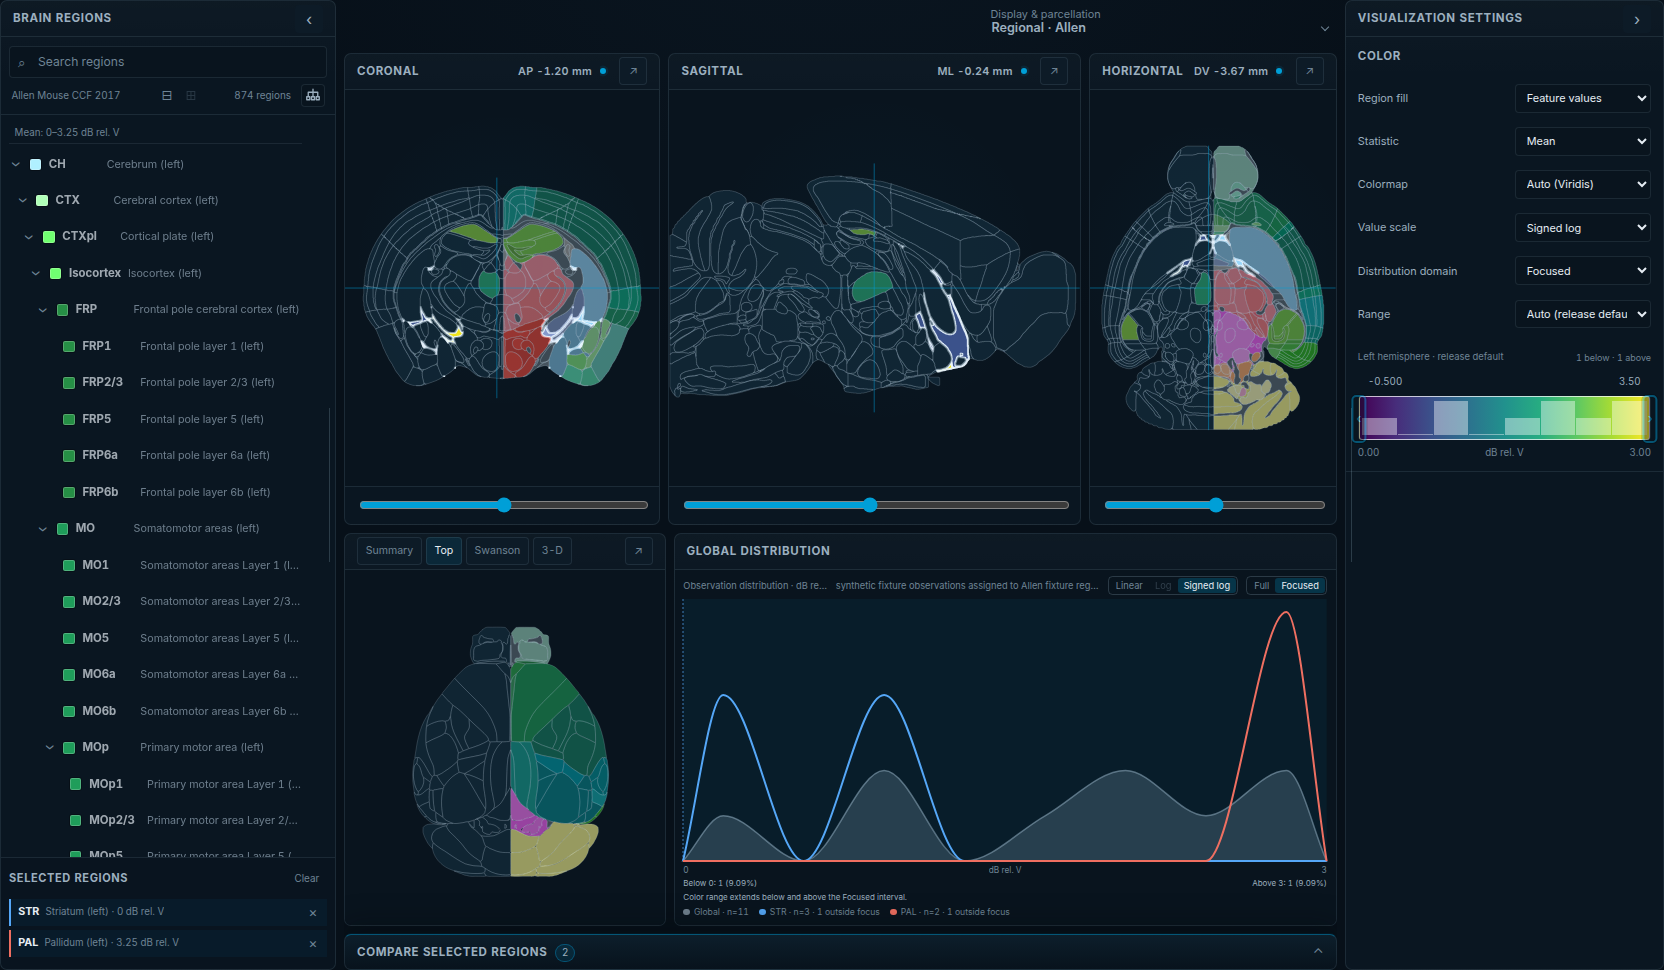
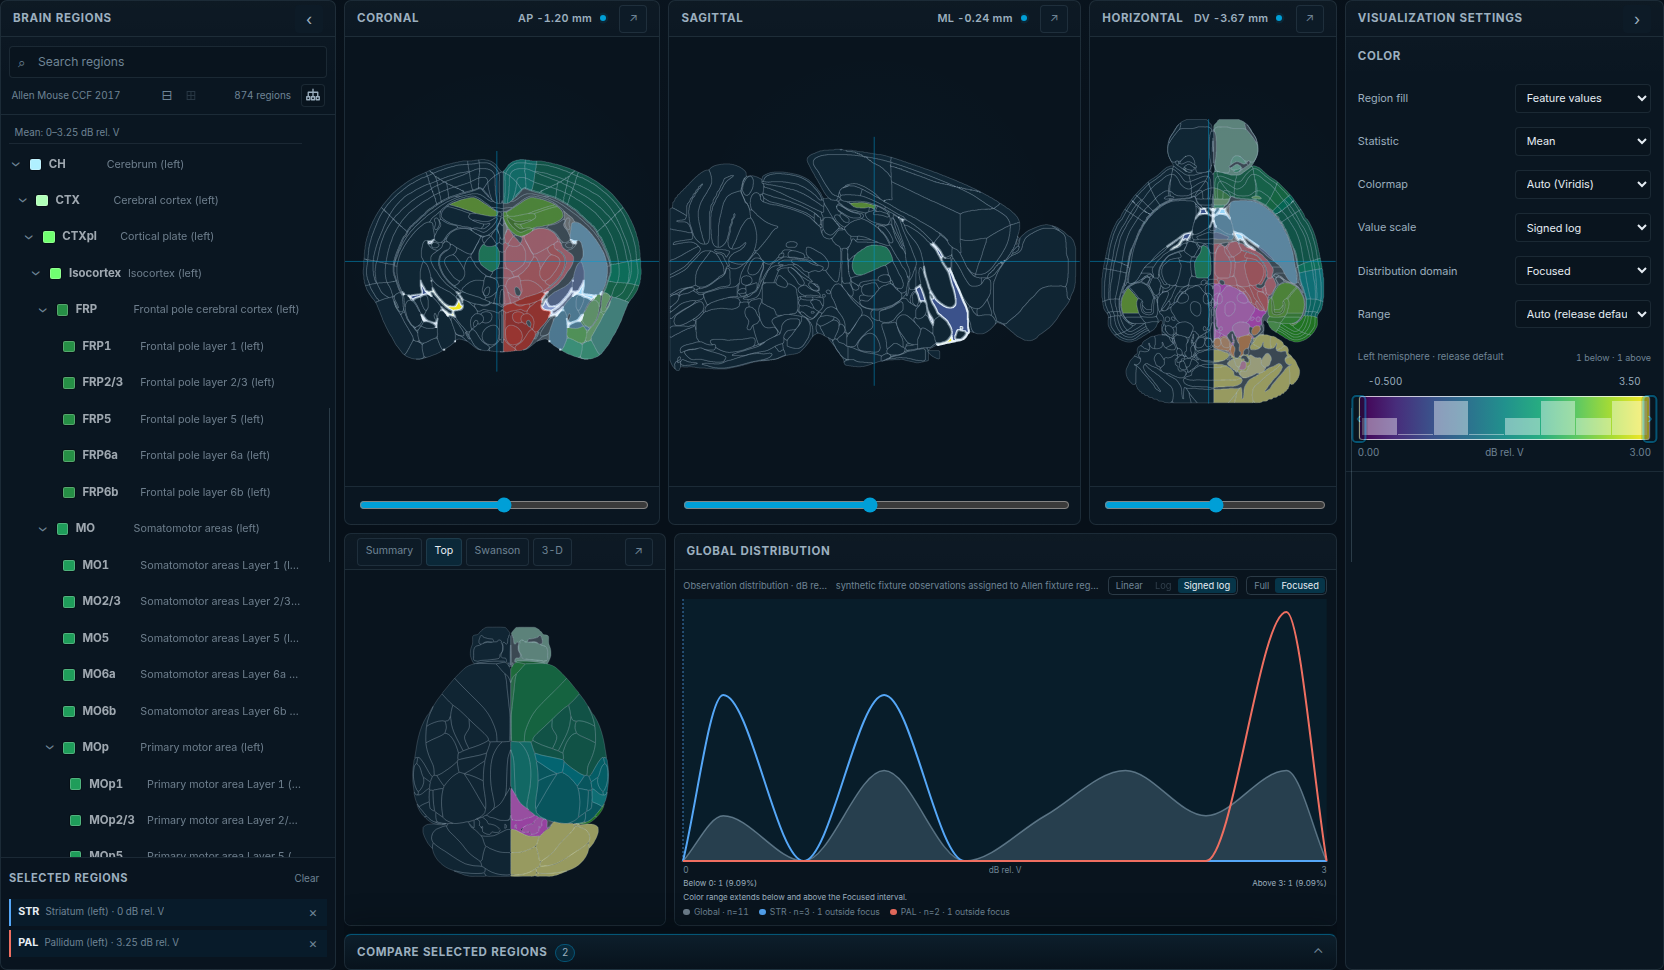
Move display and parcellation into the main header

diff --git a/web/src/styles/components/app-header.css b/web/src/styles/components/app-header.css
@@ -65,7 +65,7 @@
 .app-header__context {
   min-width: 0;
   display: grid;
-  grid-template-columns: minmax(12rem, 1fr) minmax(16rem, 1.5fr);
+  grid-template-columns: minmax(12rem, 1fr) minmax(16rem, 1.5fr) minmax(12rem, .8fr);
   align-items: stretch;
   gap: var(--space-3);
   margin: 0;
@@ -579,24 +579,16 @@
 }
 .context-menu__option-label, .context-menu__option-description { white-space: normal; overflow-wrap: anywhere; }
 .context-menu__option-detail { display: block; max-height: none; }
-.workspace__display-controls {
-  position: relative;
-  z-index: 31;
-  display: flex;
-  justify-content: flex-end;
-  min-width: 0;
-  margin: 0;
-  padding: 0;
+.context-field[data-context-field="representation"] .context-field__release { display: none; }
+@media (min-width: 1100px) {
+  .context-field[data-context-field="data"] .context-field__value { white-space: nowrap; }
 }
-.workspace__display-controls .context-field { width: min(100%, 22rem); }
-.workspace__display-controls .context-menu__trigger { min-height: 2.8rem; padding-bottom: .25rem; }
-.workspace__display-controls .context-field__release { display: none; }
 @media (max-width: 1479px) {
   .app-header__brand-text {
     position: absolute; width: 1px; height: 1px; padding: 0; margin: -1px;
     overflow: hidden; clip: rect(0 0 0 0); white-space: nowrap; border: 0;
   }
-  .app-header__context { gap: var(--space-2); grid-template-columns: minmax(11rem, 1fr) minmax(13rem, 1.3fr); }
+  .app-header__context { gap: var(--space-2); grid-template-columns: minmax(11rem, 1fr) minmax(13rem, 1.3fr) minmax(12rem, .8fr); }
 }
 @media (max-width: 1099px) {
   .app-header__desktop-actions { display: none; }
@@ -605,7 +597,7 @@
   .app-header { grid-template-columns: 3rem minmax(0, 1fr) max-content; gap: var(--space-1); }
   .app-header__brand { padding: 0 .3rem; border: 0; }
   .app-header__logo { height: 2.2rem; }
-  .app-header__context { grid-template-columns: minmax(0, 1fr); grid-template-rows: 1fr 1fr; gap: .25rem; padding: .25rem 0; }
+  .app-header__context { grid-template-columns: minmax(0, 1fr) minmax(0, 1fr); grid-template-rows: 1fr 1fr; gap: .25rem; padding: .25rem 0; }
   .context-field[data-context-field="feature"] { grid-column: 1 / -1; grid-row: 2; }
   .app-header__panel-button[data-drawer-trigger="regions"] { display: inline-flex; }
   .app-header__actions { flex-direction: column; justify-content: center; padding: .25rem; border: 0; }
@@ -629,21 +621,5 @@
     top: auto; right: var(--space-2); bottom: var(--space-2); left: var(--space-2);
     width: auto; max-height: min(70dvh, 36rem); border-radius: var(--radius-lg);
     transform-origin: bottom center;
-  }
-}
-
-.atlas-app[data-maximized-view] .workspace__display-controls {
-  position: fixed;
-  z-index: 75;
-  top: calc(var(--header-height) + 2 * var(--space-2));
-  right: var(--space-2);
-  left: var(--space-2);
-  background: var(--color-bg);
-}
-@media (max-width: 759px) {
-  .atlas-app[data-maximized-view] .workspace__display-controls {
-    top: calc(var(--header-height) + 2 * var(--space-1));
-    right: var(--space-1);
-    left: var(--space-1);
   }
 }

diff --git a/web/test/browser/app.spec.ts b/web/test/browser/app.spec.ts
@@ -36,7 +36,14 @@ for (const viewport of reviewViewports) {
     expect(statusBounds.y + statusBounds.height).toBeLessThanOrEqual(valueBounds.y);
     const headerBounds = (await page.locator('.app-header').boundingBox())!;
     expect(valueBounds.y + valueBounds.height).toBeLessThanOrEqual(headerBounds.y + headerBounds.height);
+    const displayBounds = (await page.locator('.app-header [data-context-field="representation"]').boundingBox())!;
+    expect(displayBounds.y + displayBounds.height).toBeLessThanOrEqual(headerBounds.y + headerBounds.height);
     if (viewport.width >= 1100) {
+      const dataBounds = (await page.locator('[data-context-field="data"]').boundingBox())!;
+      const featureBounds = (await page.locator('[data-context-field="feature"]').boundingBox())!;
+      expect(displayBounds.y).toBe(dataBounds.y);
+      expect(displayBounds.y).toBe(featureBounds.y);
+      expect(displayBounds.x).toBeGreaterThanOrEqual(featureBounds.x + featureBounds.width);
       const representationValue = page.locator('[data-context-field="representation"] .context-field__value');
       expect(await representationValue.evaluate((node) => node.scrollWidth <= node.clientWidth)).toBe(true);
     }

diff --git a/web/src/ui/app-shell.ts b/web/src/ui/app-shell.ts
@@ -601,6 +601,7 @@ export class AppShell {
     context.append(
       this.dataChooser.element,
       this.featureContext.field,
+      this.representationContext.field,
     );
 
     const actions = element('nav', 'app-header__actions');
@@ -2265,10 +2266,7 @@ export class AppShell {
     analysisDialog.append(analysisFrame);
     analysis.append(analysisHeader, analysisDialog);
     this.analysisDialog = analysisDialog;
-    const displayControls = element('dl', 'workspace__display-controls');
-    displayControls.setAttribute('aria-label', 'Visualization controls');
-    displayControls.append(this.representationContext.field);
-    workspace.append(displayControls, switcher, slices, context, analysis);
+    workspace.append(switcher, slices, context, analysis);
     return workspace;
   }
 

diff --git a/web/src/styles/components/view-frame.css b/web/src/styles/components/view-frame.css
@@ -267,7 +267,7 @@
 .view-frame[data-maximized='true'] {
   position: fixed;
   z-index: 70;
-  inset: calc(var(--header-height) + 2 * var(--space-2) + 2.8rem + var(--space-2)) var(--space-2) var(--space-2) var(--space-2);
+  inset: calc(var(--header-height) + 2 * var(--space-2)) var(--space-2) var(--space-2) var(--space-2);
   display: grid;
   height: auto;
   box-shadow: 0 1.25rem 4rem rgb(0 0 0 / 42%);
@@ -321,6 +321,6 @@
   }
 
   .view-frame[data-maximized='true'] {
-    inset: calc(var(--header-height) + 2 * var(--space-1) + 2.8rem + var(--space-1)) var(--space-1) var(--space-1) var(--space-1);
+    inset: calc(var(--header-height) + 2 * var(--space-1)) var(--space-1) var(--space-1) var(--space-1);
   }
 }

diff --git a/web/src/styles/components/secondary-view.css b/web/src/styles/components/secondary-view.css
@@ -154,7 +154,7 @@
 .secondary-view[data-maximized='true'] {
   position: fixed;
   z-index: 70;
-  inset: calc(var(--header-height) + 2 * var(--space-2) + 2.8rem + var(--space-2)) var(--space-2) var(--space-2) var(--space-2);
+  inset: calc(var(--header-height) + 2 * var(--space-2)) var(--space-2) var(--space-2) var(--space-2);
   display: grid;
   box-shadow: 0 1.25rem 4rem rgb(0 0 0 / 42%);
 }

diff --git a/web/src/styles/layout/responsive.css b/web/src/styles/layout/responsive.css
@@ -46,7 +46,7 @@
   }
 
   .workspace {
-    grid-template-rows: 2.8rem 2.75rem minmax(0, 1fr);
+    grid-template-rows: 2.75rem minmax(0, 1fr);
   }
 
   .view-switcher {
@@ -105,7 +105,7 @@
   }
 
   .workspace {
-    grid-template-rows: 2.8rem 2.75rem minmax(0, 1fr);
+    grid-template-rows: 2.75rem minmax(0, 1fr);
     gap: var(--space-1);
   }
 

diff --git a/web/src/styles/layout/workspace.css b/web/src/styles/layout/workspace.css
@@ -1,7 +1,7 @@
 .workspace {
   position: relative;
   display: grid;
-  grid-template-rows: 2.8rem max(14rem, calc(50vh - 2.8rem - var(--space-2))) minmax(12rem, 1fr);
+  grid-template-rows: max(14rem, 50vh) minmax(12rem, 1fr);
   gap: var(--space-2);
   padding-bottom: calc(2.25rem + var(--space-2));
   overflow: hidden;

diff --git a/docs/DECISIONS.md b/docs/DECISIONS.md
@@ -71,8 +71,9 @@ only part of the body; the index states what remains effective.
 | D060 | Lean AWS static hosting and local publication | accepted | 2026-09-02 | CloudFront serves the viewer and data from private S3; no Cloudflare Pages or always-on publishing server initially |
 | D061 | Curated immutable project editions | partially superseded | 2026-09-03 | identity, authority, context and resolution retained; D063 replaces wide/staged UI presentation |
 | D062 | Linux canonical release environment | accepted | 2026-09-04 | Linux-only release build/preflight/publication; macOS preview-only |
-| D063 | Data chooser and exploration-first header | partially superseded | 2026-09-05 | D064 moves version selection into Data details; grouped Data and prominent Feature retained |
+| D063 | Data chooser and exploration-first header | partially superseded | 2026-09-05 | D064 moves version selection into Data details; D065 moves display into the header; grouped Data and prominent Feature retained |
 | D064 | Put rare version changes in Data details | accepted | 2026-09-05 | removes header Release and user-facing edition modes; preserves exact scientific navigation |
+| D065 | Compact display control in the header | accepted | 2026-09-05 | Display & parcellation shares the desktop Data/Feature row; removes workspace control row |
 
 ## D001 — Separate v2
 
@@ -1463,3 +1464,15 @@ coordination merely because exact release IDs happen to match.
 This supersedes the presentation/disclosure requirements of D061/D063 only.
 Scientific choices, schema, publication, immutable identities, and Q9 remain
 unchanged. Named snapshot selection need not occupy an everyday control.
+
+
+## D065 — Keep display and parcellation in the header
+
+Owner direction recorded 2026-09-05. Put **Display & parcellation** alongside
+Data and Feature in one desktop header row. Remove its separate workspace row
+and the corresponding reserved space in maximized views. On narrow screens,
+Data and Display & parcellation share the first row, with Feature below.
+
+This supersedes only D063's placement of the display control above the views.
+Representation/parcellation behavior, URL state, and scientific choices remain
+unchanged.

diff --git a/docs/frontend/DATASET_NAVIGATION.md b/docs/frontend/DATASET_NAVIGATION.md
@@ -27,7 +27,7 @@ project
 - A **feature** is a release-declared measured quantity.
 - A **representation** is a release-declared exploration form such as regional
   summaries or a scalar volume. The **Display & parcellation** control groups
-  representation and applicable parcellation choices above the visualization.
+  representation and applicable parcellation choices in the header.
 
 The initial public grouping remains:
 
@@ -233,7 +233,7 @@ source discriminant. No example label becomes a new release or default.
 
 ## Display and parcellation
 
-**Display & parcellation**, above the visualization, groups the release/feature's
+**Display & parcellation**, alongside Data and Feature in the header, groups the release/feature's
 regional or volume representation with its applicable anatomical parcellations.
 Typical values are `Regional · Allen` and `Volume · Allen anatomy`. The control
 stays accessible during maximization. It changes neither slice orientation nor
@@ -242,7 +242,9 @@ availability remains data-driven, including volume and optional 3-D interactions
 
 ## Responsive interaction and accessibility
 
-At narrow widths Data and Release occupy the first row and Feature the second.
+At desktop widths Data, Feature, and Display & parcellation share one header row.
+At narrow widths Data and Display & parcellation occupy the first row and Feature
+the second.
 The same chooser and selection model applies everywhere; resizing never changes
 scientific context. Long names and custom baselines wrap, and popover descriptions
 and immutable IDs remain readable. Phone popovers use a bounded bottom sheet;

diff --git a/docs/INTEGRATION_STATUS.md b/docs/INTEGRATION_STATUS.md
@@ -182,8 +182,7 @@ browser composition. Browser startup, Back/Forward, local inventory refresh,
 and URL-v4 canonicalization now resolve that catalog to exact edition/custom/
 local context before immutable release loading; unresolved published releases
 are rejected. D063/D064 group project/dataset selection in Data, move rare version changes
-into Data details, emphasize Feature, and place Display & parcellation above
-the visualization. The shared menus preserve atomic edition/custom/local
+into Data details, emphasize Feature, and place Display & parcellation alongside Data and Feature in the header (D065). The shared menus preserve atomic edition/custom/local
 selection, bounded phone composition, live catalog status, and explicit
 catalog/navigation recovery. No generic D056/D061 implementation slice remains.
 Generic machinery may use synthetic edition values; Q9 blocks only the real paper

diff --git a/docs/LAUNCH_SPEC.md b/docs/LAUNCH_SPEC.md
@@ -42,7 +42,7 @@ Acceptance criteria:
 - <a id="ls01-07"></a> **`LS01-07`** — Current Chrome/Edge, Firefox, and Safari are the launch browser targets. Chromium CI is necessary but not sufficient for final release QA.
 - <a id="ls01-08"></a> **`LS01-08`** — Public navigation clearly separates Project, Dataset, immutable Release,
   Feature, and display choices; the grouped Data chooser preserves project/dataset
-  identity, and Display & parcellation sits above the visualization. Ephys Atlas
+  identity, and Display & parcellation sits alongside Data and Feature in the header. Ephys Atlas
   and Brain-Wide Map are distinct projects,
   Data details exposes exact release IDs and optional version selection. A
   paper-facing project edition preserves its coordinated dataset-to-release

diff --git a/docs/guides/using-the-viewer.md b/docs/guides/using-the-viewer.md
@@ -15,7 +15,7 @@ walkthrough of the visible controls.
 ## Choose what to explore
 
 Use **Data** to choose a dataset and **Feature** to choose what to explore.
-**Display & parcellation** above the views controls its representation.
+**Display & parcellation** in the header controls its representation.
 Development, legacy, and browser-local status remain visible beside Data.
 Published choices come from the public catalog and selected release rather
 than a fixed frontend list. Imported releases appear separately under the
